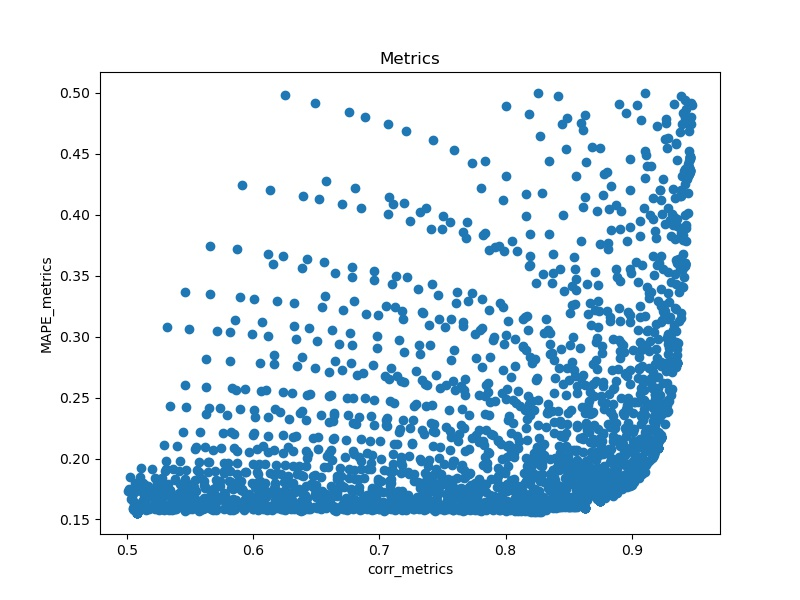
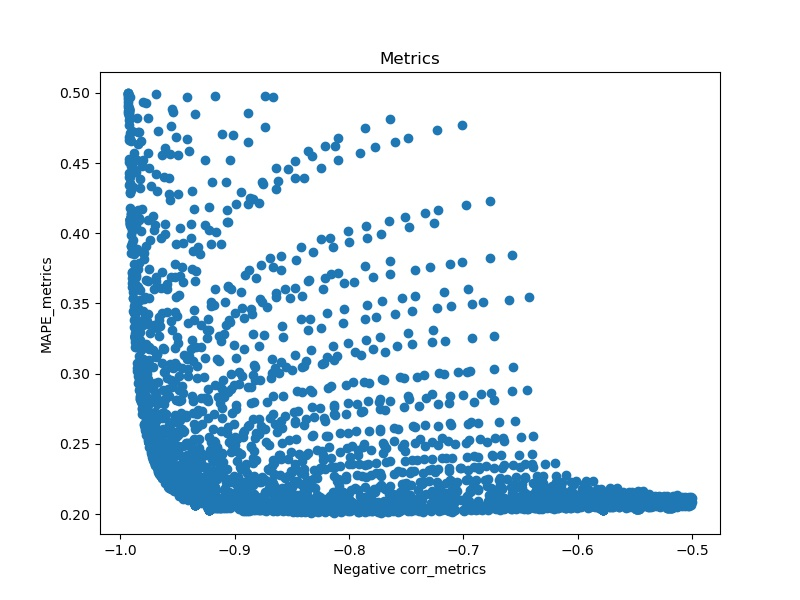
Fixed the data to be measured in constant prices

diff --git a/ism_model/app.py b/ism_model/app.py
@@ -54,19 +54,19 @@ class Pipeline:
             Y_preds = []
             I_preds = []
             E_preds = []
-            K_t = self.dataset[cfg.GDP_COL][0]/df["alpha_k"][ind]
-            K_t_next = self.dataset[cfg.GDP_COL][0]/df["alpha_k"][ind]
-            Y_t = self.dataset[cfg.GDP_COL][0]
+            K_t = self.dataset[cfg.GDP_COL+" const"][0]/df["alpha_k"][ind]
+            K_t_next = self.dataset[cfg.GDP_COL+" const"][0]/df["alpha_k"][ind]
+            Y_t = self.dataset[cfg.GDP_COL+" const"][0]
             for t in range(self.dataset.shape[0]):
                 K_t = K_t_next
                 Y_t = self.model.calc_gdp(
-                    Y_0=self.dataset[cfg.GDP_COL][0],
+                    Y_0=self.dataset[cfg.GDP_COL+" const"][0],
                     a=df["a"][ind],
                     b=df["b"][ind],
                     L=self.dataset[cfg.LABOUR_COL+" preds"][t],
                     L_0=self.dataset[cfg.LABOUR_COL+" preds"][0],
                     K=K_t,
-                    K_0=self.dataset[cfg.GDP_COL][0]/df["alpha_k"][ind]
+                    K_0=self.dataset[cfg.GDP_COL+" const"][0]/df["alpha_k"][ind]
                 )
                 I_t = self.model.calc_import(
                     rho=self.model.rho,
@@ -94,14 +94,14 @@ class Pipeline:
                     K=K_t
                 )
             corr_metrics = [
-                CORR(Y_preds, self.dataset[cfg.GDP_COL].to_list()),
-                CORR(I_preds, self.dataset[cfg.IMPORT_COL].to_list()),
-                CORR(E_preds, self.dataset[cfg.EXPORT_COL].to_list())
+                CORR(Y_preds, self.dataset[cfg.GDP_COL+" const"].to_list()),
+                CORR(I_preds, self.dataset[cfg.IMPORT_COL+" const"].to_list()),
+                CORR(E_preds, self.dataset[cfg.EXPORT_COL+" const"].to_list())
             ]
             mape_metrics = [
-                MAPE(Y_preds, self.dataset[cfg.GDP_COL].to_list()),
-                MAPE(I_preds, self.dataset[cfg.IMPORT_COL].to_list()),
-                MAPE(E_preds, self.dataset[cfg.EXPORT_COL].to_list())
+                MAPE(Y_preds, self.dataset[cfg.GDP_COL+" const"].to_list()),
+                MAPE(I_preds, self.dataset[cfg.IMPORT_COL+" const"].to_list()),
+                MAPE(E_preds, self.dataset[cfg.EXPORT_COL+" const"].to_list())
             ]
             res.append([np.mean(corr_metrics), np.mean(mape_metrics), ind])
         return res
@@ -115,10 +115,14 @@ class Pipeline:
         ]
         self.dataset = self.dataset[[
             cfg.GDP_COL,
+            cfg.GDP_COL+" const",
             cfg.LABOUR_COL,
             cfg.EXPORT_COL,
+            cfg.EXPORT_COL+" const",
             cfg.IMPORT_COL,
+            cfg.IMPORT_COL+" const",
             cfg.INVESTMENTS_COL,
+            cfg.INVESTMENTS_COL+" const",
             "pi_i",
             "pi_j",
             "pi_e"
@@ -227,10 +231,10 @@ class Pipeline:
             (self.params_set["MAPE_metrics"] <= 0.5)
         ]
         plot_metrics(
-            data_x=self.params_set["corr_metrics"].to_list(),
+            data_x=(-1*self.params_set["corr_metrics"]).to_list(),
             data_y=self.params_set["MAPE_metrics"].to_list(),
             title="Metrics",
-            x_label="corr_metrics",
+            x_label="Negative corr_metrics",
             y_label="MAPE_metrics",
             save_path="img/metrics.jpeg"
         )
